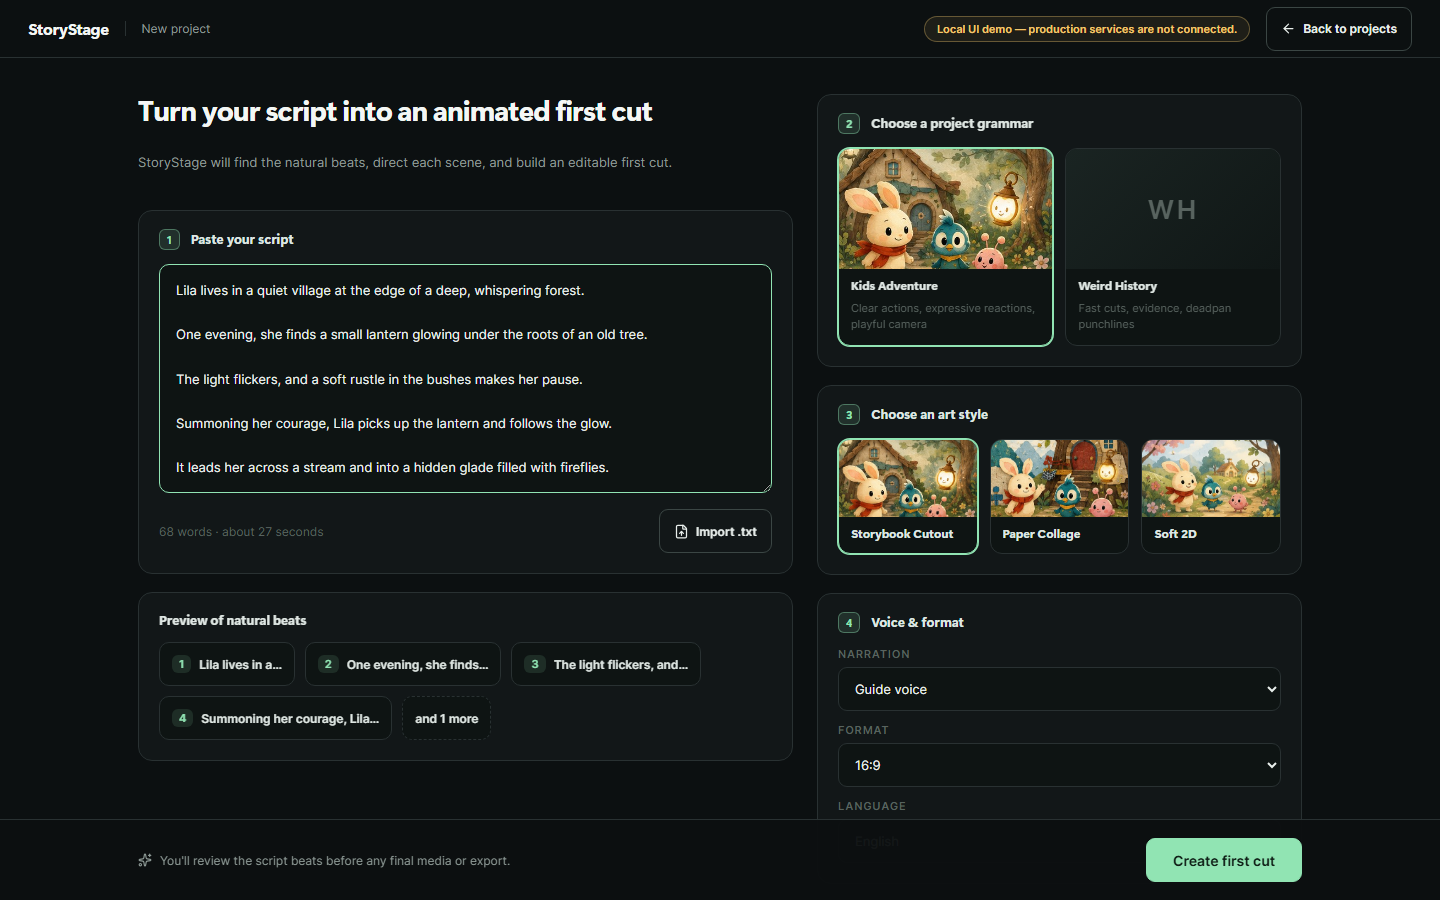
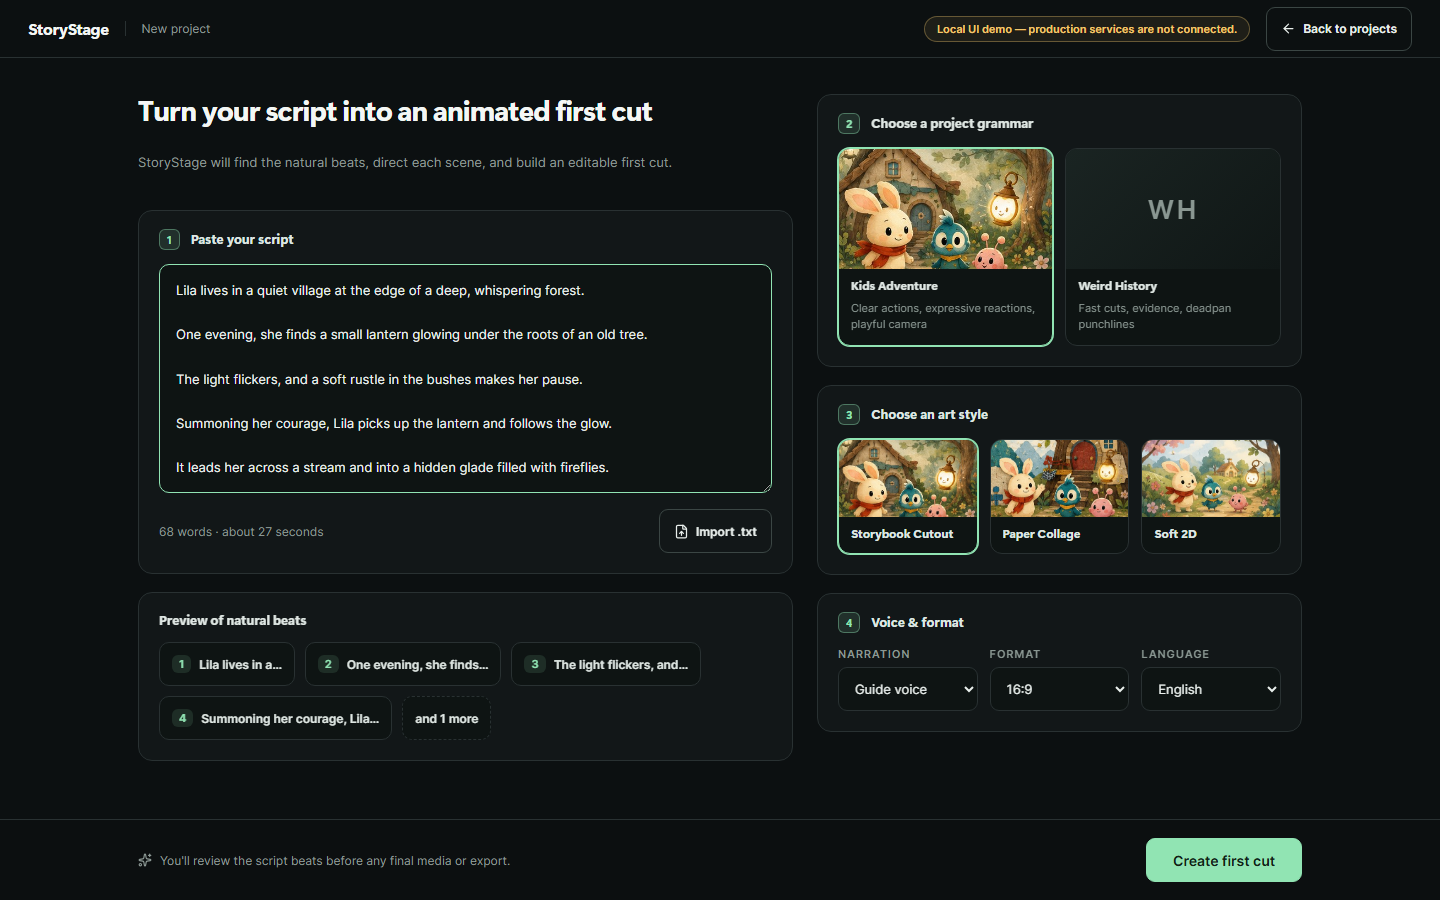
docs(studio): F1 v33 acceptance successor handback + recaptured evidence

diff --git a/reports/agent-handoffs/2026-07-19-kimi-f1-projects-create-handback.md b/reports/agent-handoffs/2026-07-19-kimi-f1-projects-create-handback.md
@@ -1,175 +1,162 @@
-# Kimi F1 handback — Projects + Create (inbox v31)
+# Kimi F1 handback — Projects + Create (inbox v33 acceptance successor)
 
-Task: `F1-PROJECTS-CREATE`
-Brief: `reports/agent-handoffs/2026-07-19-codex-kimi-f1-projects-create-v31.md`
+Task: `F1-PROJECTS-CREATE-ACCEPTANCE-CORRECTIONS`
+Brief: `reports/agent-handoffs/2026-07-20-codex-kimi-f1-acceptance-corrections-v33.md`
 Branch: `agent/kimi-ui-v2`
-Draft PR target: `product/v1`
+Draft PR: https://github.com/truthunknown2-art/StoryStage/pull/33
+Task issue: https://github.com/truthunknown2-art/StoryStage/issues/34 (claimed)
 
 ## SHAs
 
-- Exact product-plan base: `9f3d6fac522f99b693c163c822334076ee9584bd`
-- Implementation head: `ac245e29f785b8bccc0142bca2480195625ac67b`
-- Branch tip (this handback + screenshots): named separately in the PR body.
+- Product-plan base: `9f3d6fac522f99b693c163c822334076ee9584bd`
+- Plan revision cited by the brief: `product/v1@e759c54d513b628ff04b4d7782cb1522b7beec85`
+- Rejected candidate: `00299eb351f24a1cf1be5b34cb08f6c77c039af5`
+- Implementation successor (this handback cycle): `5c478fcdb106909c460ef26f21899761f7bbf7b1`
+- Evidence/handback commit: named separately in the PR body (two-commit
+  protocol, no self-referential branch-tip claim).
 
-## What was built
+## v33 corrections applied
+
+1. **Legacy implementation preserved, Product v1 stays default.**
+   `apps/studio/src/App.tsx` is restored to the accepted base version — all
+   imports, helpers, and the exported `LegacyApp` are byte-identical to
+   `9f3d6fa` — with two additive changes only: the `ProductV1App` import, and
+   the final exported `App` now rendering `ProductV1App` as the default
+   route. The complete pre-F1 journey (creator app + engineering app, with
+   their original bridge) is preserved as the exported `LegacyCreatorApp`
+   wrapper. The two legacy proof harnesses changed exactly one import line
+   each to `import { LegacyCreatorApp as App } from "./App";`; no assertion,
+   fixture, or product logic was touched. **Deviation note (flagged
+   explicitly):** the brief suggested `LegacyApp as App`; that component
+   renders the engineering home, while the suites assert the creator journey
+   that the old default route rendered (`Cv001CreatorApp`). `LegacyCreatorApp`
+   preserves that exact journey byte-for-byte; with it the suites pass 41/41.
+   The v31 `App.test.tsx` continues to exercise the Product v1 default
+   unchanged.
+2. **1440×900 Create controls fully usable.** The Voice & format selects now
+   lay out three-up at desktop (stacking at ≤1024px), so the Language control
+   and its value are never covered by the sticky action footer. Verified by
+   the recaptured screenshots and by the 1024px browser inspection below.
+3. **Normal-text contrast gate.** Required-information text in the pv1
+   surfaces no longer uses `--faint` (#58635f, ≈2.90:1 on `--panel`). A
+   scoped `--pv1-faint: #8a9792` token now covers the word/duration count,
+   choice descriptions, select labels, handoff facts, beat/muted/scene
+   metadata, and the WH placeholder monogram. Documented pairs (computed):
+   `#8a9792` on `--panel #121718` ≈ 5.9:1; `#8a9792` on body `#0c1011` ≈
+   6.2:1 — both above the 4.5:1 floor. Hierarchy preserved: pv1-faint
+   (#8a9792) < muted (#8d9995) < ink (#e9efec). Legacy surfaces keep their
+   original tokens untouched.
+4. **Evidence replaced; handback truthful.** All five screenshots and
+   `capture-report.json` were recaptured against the committed successor.
+   This handback is labelled v33 and no longer records failing deterministic
+   tests as a limitation: the full studio suite is green (58/58) and root
+   `pnpm verify` exits 0.
+
+## What was built (F1, accepted scope — unchanged from v31 except as noted)
 
 The first understandable slice of the real creator journey — **Projects →
 Create → honest local Studio handoff** — as the default route of
 `apps/studio`. Frontend-only, bounded local UI state, production services
 disconnected and labelled honestly throughout.
 
-- **Projects (default entry).** Calm product header, page title, real
-  **New project** action, and the labelled local Ollo demo card (`The
-  Storylight in the Little Wood` — cast reference art, Kids Adventure ·
-  Storybook Cutout · ~20 min episode · `Local UI demo` badge). The
-  `Local UI demo — production services are not connected.` banner is always
-  visible. An understandable empty state renders when the demo project is
-  removed (test fixture via the `showDemoProject` prop).
-- **Create.** Follows the approved mock hierarchy: paste/edit script area
-  with live word count and honest duration estimate (~150 wpm), working
-  `.txt` import through the browser file picker with a visible error state
-  (wrong file type, unreadable file), Kids Adventure / Weird History grammar
-  cards, art-style cards using the existing reference assets, narration /
-  16:9 / language controls (future options disabled with visible reasons),
-  and a deterministic natural-beats preview (paragraphs in source order,
-  sentences for single-paragraph scripts, capped at four visible cards with
-  an honest "and N more"). **Create first cut** validates the script (empty
-  script blocks navigation with a useful error); **Back to projects** always
-  works. The action footer is sticky so it stays visible at 900px.
-- **Honest local Studio handoff.** Shows the derived project name, every
-  selected choice, the detected beat summary, the permanent
-  `Local UI demo — production services are not connected.` banner, and the
-  explicit copy `No imagery, animation, audio, or render was generated`.
-  Back/Edit actions work. F2 will replace this with the long-form Studio
-  shell (not built here).
-- **Long-form Ollo demo.** The demo card opens a bounded local project: 8
-  sample scenes with concise metadata (titles + planned seconds ≈ 20 min,
-  all labelled `not produced`), the demo banner, and explicit copy that no
-  imagery/animation/audio/render exists. No thousands of words, no
-  thousands of cards.
+- **Projects (default entry).** Product header, real **New project** action,
+  labelled local Ollo demo card (`The Storylight in the Little Wood` — cast
+  reference art, Kids Adventure · Storybook Cutout · ~20 min · `Local UI
+  demo`), understandable empty state, permanent local-demo banner.
+- **Create.** Mock hierarchy: script area with live word count and honest
+  duration, working `.txt` import with visible error state, Kids Adventure /
+  Weird History grammar cards, art-style cards using the existing reference
+  assets, narration / 16:9 / language controls (future options disabled with
+  reasons), deterministic natural-beats preview with honest "and N more",
+  validated **Create first cut**, **Back to projects**, sticky action
+  footer.
+- **Honest local Studio handoff.** Name, choices, detected beats, permanent
+  banner, explicit `No imagery, animation, audio, or render was generated`,
+  working Back/Edit. F2 replaces it later.
+- **Long-form Ollo demo.** Bounded 8-scene metadata view (~20 min, all
+  `not produced`), demo banner visible.
+- Legacy engineering/proof surfaces remain in the repository, preserved and
+  routed off the default (see correction 1).
 
-Legacy engineering/proof surfaces remain in the repository but are no
-longer the default route, per the ticket's explicit allowance.
+## Changed files (exact paths, this successor)
 
-## Changed files (exact paths)
+- `apps/studio/src/App.tsx` — restored from base; `ProductV1App` import;
+  default route renders `ProductV1App`; `LegacyCreatorApp` export preserves
+  the old journey.
+- `apps/studio/src/Cv001CreatorStudio.test.tsx` — import line only.
+- `apps/studio/src/Cv002DraftReview.test.tsx` — import line only.
+- `apps/studio/src/styles.css` — three-up `.pv1-selects` layout with ≤1024px
+  stacking; scoped `--pv1-faint` token and its seven required-text uses.
+- `reports/agent-handoffs/2026-07-19-kimi-f1-projects-create-handback.md` —
+  this file.
+- `reports/agent-handoffs/2026-07-19-kimi-f1-projects-create/screenshots/**`
+  — recaptured evidence.
 
-- `apps/studio/src/App.tsx` — default route now renders `ProductV1App`.
-- `apps/studio/src/App.test.tsx` — rewritten to the 8 focused F1 tests.
-- `apps/studio/src/styles.css` — appended the `.pv1-*` product-v1 styles
-  (near-black surfaces, mint actions, quiet borders, 44px targets,
-  1024px responsive rule, reduced-motion guard).
-- `apps/studio/src/product-v1/ProductV1App.tsx` (new) — screen state machine.
-- `apps/studio/src/product-v1/ProjectsHome.tsx` (new).
-- `apps/studio/src/product-v1/CreateProject.tsx` (new).
-- `apps/studio/src/product-v1/LocalStudioHandoff.tsx` (new).
-- `apps/studio/src/product-v1/LongFormDemo.tsx` (new).
-- `apps/studio/src/product-v1/beat-preview.ts` (new) — deterministic local
-  beat/word/duration helpers (preview only, no shared contract).
-- `apps/studio/src/product-v1/demo-project.ts` (new) — bounded Ollo demo
-  metadata.
-- `reports/agent-handoffs/2026-07-19-kimi-f1-projects-create-handback.md`
-  (this file).
-- `reports/agent-handoffs/2026-07-19-kimi-f1-projects-create/screenshots/**`.
-
-No dependencies, manifests, schemas, engine, runtime, or asset files were
-touched. Existing assets under `apps/studio/src/assets/**` were reused
-read-only.
-
-## Tests
-
-New `apps/studio/src/App.test.tsx` — 8/8 pass:
-
-1. Projects is the default creator entry, with the labelled local demo.
-2. New project → Create and Back to projects navigation.
-3. Script edits and `.txt` import update word count, duration, and beat
-   preview (incl. import error state and "and N more" capping).
-4. Grammar, art style, narration, format, and language choices update state
-   (future options visibly disabled with reasons).
-5. Empty script blocks first-cut navigation with a useful error.
-6. A valid script opens the honest local Studio handoff that never claims
-   media was generated or rendered.
-7. The long-form Ollo demo opens visibly labelled `Local UI demo`.
-8. Empty Projects state stays understandable when the demo is absent.
+(v31 implementation files under `apps/studio/src/product-v1/**` are
+unchanged by this successor except where already landed.)
 
 ## Commands and results
 
-- `corepack pnpm --filter @storystage/studio exec vitest run src/App.test.tsx`
-  — 8/8 pass.
-- `corepack pnpm --filter @storystage/studio typecheck` — clean.
-- `corepack pnpm --filter @storystage/studio build` — clean.
-- `corepack pnpm --filter @storystage/studio test` — 19 passed / 39 failed
-  across 58 tests in 8 files. All 39 failures are in the two unchanged
-  legacy proof suites (`src/Cv001CreatorStudio.test.tsx` 19,
-  `src/Cv002DraftReview.test.tsx` 20), which render `<App />` and drive the
-  decommissioned pre-F1 default journey (CV-001 Create → CV-002 draft
-  review). The ticket explicitly authorizes `App.tsx` to stop using those
-  legacy surfaces as the default route, and the allowed-files list does not
-  permit editing those suites; they fail because the product entry changed
-  exactly as instructed, not because of a defect in F1 code. Every suite
-  that does not depend on the removed default route passes: `App.test.tsx`
-  8/8, `KidsShowcaseStudio` 3/3, `Kvp001PlayerEvidence` 2/2,
-  `AppErrorBoundary` 1/1, `host` 2/2, `candidate-source-review-boundary`
-  1/1.
-- Root `pnpm verify` — privacy checks, lint, and typecheck pass. The
-  recursive test phase stops in `packages/asset-pipeline`, where the
-  upstream `character-rig-preparation` test exceeded its hardcoded 5000 ms
-  budget under machine load (5212 ms; passes in ~3.7 s isolated and on
-  hosted CI) — unchanged upstream work, documented per the ticket's escape
-  clause, and not modified. The two legacy studio suites documented above
-  fail for the authorized default-route change. No backend packages were
-  touched.
+- `pnpm --filter @storystage/studio test` — **58/58 pass** (8 F1 + 20
+  CV-001 + 21 CV-002 + 3 KidsShowcase + 2 Kvp001 + 1 AppErrorBoundary +
+  2 host + 1 boundary).
+- `pnpm --filter @storystage/studio typecheck` — clean.
+- `pnpm --filter @storystage/studio build` — clean.
+- `pnpm verify` — **exit 0** (privacy checks, lint, typecheck, and all
+  workspace test suites, including the studio 58/58).
 
-## Screenshots (actual running application)
+## Screenshots (actual running application, recaptured post-successor)
 
 Captured with headless Chromium (Playwright 1.62.0-alpha) against the real
-Vite dev server at `http://127.0.0.1:5174/` serving this branch, on the
-implementation commit. Capture command: `node capture-f1.cjs` (script not
-committed; machine-readable results in `screenshots/capture-report.json`).
+Vite dev server at `http://127.0.0.1:5174/` serving committed successor
+`5c478fcdb106909c460ef26f21899761f7bbf7b1`. Machine-readable results:
+`screenshots/capture-report.json`.
 
 | File | URL/state | Viewport | SHA-256 |
 | --- | --- | --- | --- |
[8 lines of base64/hex data omitted]
 
 Browser console status: all five captures — no console errors, no warnings,
 no page errors.
 
-## Responsive and accessibility notes
+**1024px responsive inspection (noncommitted, per the brief):** headless
+Chromium at 1024×800 against the same URL — Projects entry and New project
+visible; Create layout stacks to one column; Language select visible; the
+action footer does not cover Language (`footerCoversLanguage: false`); no
+horizontal overflow; no page errors.
 
-- 1440×900 fits without page sprawl; 1920×1080 is composed around a 1220px
-  content column rather than stretched. The Create action footer is sticky,
-  so `Create first cut` is always reachable at 900px.
-- A 1024px breakpoint stacks the Create layout and the demo hero; the grid
-  cards reflow. Interactive targets are ≥44px (buttons, selects, beat
-  cards).
-- Semantic labels throughout (script textarea, selects, pressed states on
-  choice cards), visible focus via the existing global focus-visible rule,
-  keyboard-operable controls, truthful button text, and a reduced-motion
-  guard. Error states use `role="alert"`.
-- Error-boundary behavior is untouched (`AppErrorBoundary` suite passes).
+## Accessibility and responsive notes
+
+- 1440×900 fits with the Language row fully clear of the sticky footer;
+  1920×1080 composed around the content column; ≤1024px stacks.
+- Interactive targets ≥44px (buttons, selects, beat cards); choice cards use
+  `aria-pressed`; selects carry explicit labels; disabled future options
+  state their reason; script errors use `role="alert"`.
+- Required text meets the 4.5:1 gate (documented pairs above); visible
+  focus and the reduced-motion guard are unchanged.
 
 ## Known limitations
 
-- The two legacy studio suites fail as documented above — the authorized
-  consequence of changing the default route; retiring or porting them is an
-  integration decision outside the F1 allowed files.
 - The Studio handoff is intentionally minimal for F1; F2 replaces it with
   the long-form Studio shell. The Ollo demo holds metadata only.
-- `.txt` is the only accepted import type; other text formats show the
-  visible error by design.
+- `.txt` is the only accepted import type by design; other types show the
+  visible error.
 - Duration estimate is an honest ~150 wpm approximation, labelled "about".
-- Project name on the handoff derives from the first words of the script;
-  there is no separate title field in this slice (the approved mock has
-  none).
+- Project name on the handoff derives from the script's first words (the
+  approved mock has no separate title field).
+- Root verify's earlier asset-pipeline timeout-margin flakes (documented in
+  prior lanes) did not recur in this successor's run (exit 0).
 
-## PR
+## PR and issue
 
-Draft PR: named in the PR body with the exact final SHAs. Target:
-`product/v1`.
+- Draft PR #33: https://github.com/truthunknown2-art/StoryStage/pull/33
+  (body updated for this successor).
+- Issue #34: https://github.com/truthunknown2-art/StoryStage/issues/34
+  (claimed by Kimi before starting this cycle).
 
-Stopping here per the brief: no F2 Studio shell, no backend work, no
-generation/provider/persistence claims. Continuing the 15-minute read-only
-inbox poll.
+Stopping here per the brief: no F2, no backend work. Continuing the
+15-minute read-only inbox poll.
